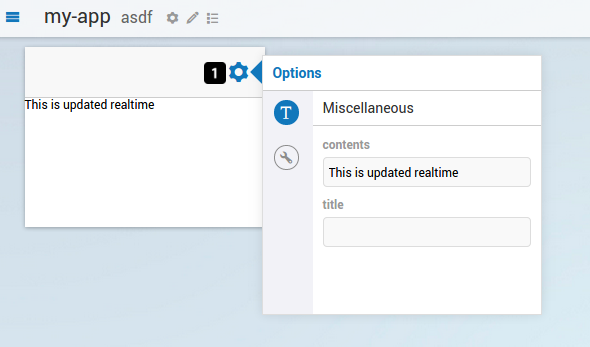
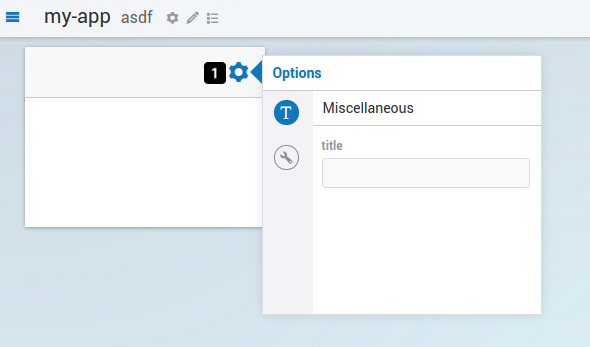
02-adding-dynamic-contents-part-i-options/index.html: Updated the tutorial; now uses some theoretical sections at the beginning and several practical sections at the end of the tutorial; RE #1774

diff --git a/Documentation/tutorials/aimms-webui-dev-tutorial-series/02-adding-dynamic-contents-part-i-options/index.html b/Documentation/tutorials/aimms-webui-dev-tutorial-series/02-adding-dynamic-contents-part-i-options/index.html
@@ -1,7 +1,7 @@
 <!DOCTYPE html>
 <html>
 	<head>
-		<title>AIMMS WebUI Dev Tutorial Series</title>
+		<title>02 - Adding dynamic contents, part I: Options</title>
 		<meta data-wp-post-id="9609" />
 		<link href='http://fonts.googleapis.com/css?family=Roboto:300,300italic' rel='stylesheet' type='text/css'>
 		<style>
@@ -26,18 +26,75 @@
 	<body>
 		<h1 class="wp-title">AIMMS WebUI Dev Tutorial</h1>
 		<h2 class="wp-title" id="02-adding-dynamic-contents-part-i-options">02 - Adding dynamic contents, part I: Options</h2>
+		<p> In this tutorial you will learn how to extend the widget that we created in
+			<a href="../01-writing-your-first-custom-widget/index.html">tutorial-01</a> with dynamic contents. Like in the
+			previous tutorial, we will leave out much of the technical details and underlying design and only explain the
+			essential things in order to get you up-and-running as soon as possible.
+		<h3>Before we begin - Prerequisites</h3>
+		<p>To make the most out of this tutorial, it is important that you meet a couple of prerequisites.
+		<p>First of all, we are going to assume that you already familiarized yourself a bit with the AIMMS WebUI.
+			Both with the end-usage and the app-development. That you have a recent AIMMS and that you have it
+			running in your set-up.
+		<p>Since this is a (software) development tutorial, we are also assuming that you have experience in writing
+			software in a generic programming language, and, that you have a basic knowledge on HTML5 technologies
+			(HTML5 DOM, CSS, Javascript, and the likes). It is also beneficial, however not required, if you are
+			familiar with <a href="http://jquery.org">jQuery</a> and, to lesser extent,
+			<a href="http://jquery-ui.org">jQuery UI</a>, as AIMMS WebUI is built on top of these technologies.
+		<p> Finally, since this tutorial builds on the previous tutorial, we expect that you have done that tutorial
+			first. If you have not done so yet, here is a link to <a href="../01-writing-your-first-custom-widget/index.html">tutorial-01</a>.
+		<h3>Dynamic contents in AWF</h3>
+		<p> There are two ways of having dynamic contents in an AWF widget. The easiest way is through options; the second way
+			is through data from AIMMS. In this tutorial we will be explaining the former method. The latter method will be
+			the topic of a later tutorial.
+		<h3>Options</h3>
 		<p> As already mentioned in <a href="../01-writing-your-first-custom-widget/index.html">tutorial-01</a>,
 			a widget can be manipulated during its lifecycle through the AWF Option Mechanism.
 			As an option value changes, the widget responds to such a change by updating its associated DOM element.
 			Likewise, a widget can change the value of an option and thereby make changes in a model.
-		<p>	We specify widget-specific options inside the factory of the widget. Currently AWF supports 6 option types:
+		<h3>The basic components of an option</h3>
+		<p> An option in AWF consists of:
+		<ol>
+			<li>a <em>name</em>,
+			<li>a <em>type</em>, and
+			<li>a <em>value</em>.
+		</ol>
+		<p> An option <em>name</em> is just that, a string to identify the option. It should be all lower
+			case consisting of short nouns separated by periods, not unlike
+			<a href="http://www.oracle.com/technetwork/java/codeconventions-135099.html">Java package names</a>. For example:
+			<ul>
+				<li><tt>car.interior.steeringwheel</tt>
+				<li><tt>car.door.handle</tt>
+				<li><tt>car.door.window</tt>
+			</ul>
+		<p> An option <em>type</em> determines the types of values it can hold (or can be resolved to).
+			The basic option types in AWF are:
 			<em>number</em>, <em>string</em>, <em>boolean</em>, <em>array</em>, <em>object</em> and <em>datasource</em>.
-			In this tutorial, we are going to dynamically update the contents of our "Hello AIMMS!" widget using an AWF
-			option and be able to change its value through the widgets "option editor"
+			These names should speak for themselves, except for, perhaps, the <em>datasource</em> option type, which we
+			will explain in a later tutorial. The framework allows plugins to introduce their own option types, more
+			on this will also be in a later tutorial.
+		<p> The option <em>value</em> depends, as was stated, on the option <em>type</em>. A value of <tt>null</tt>
+			denotes that a default value, intrinsic to the widget, should be used.
+		<p> An option is declared and specified in the widget <em>factory</em>
+		<h3>Option Editors</h3>
+		<p> Where an option be seen as a widget programmer's means of informing AWF what it wants as input, there also
+			needs to be a means for an end-user to interact with the widget using that option. In AWF the value of an
+			option can be manipulated through the UI by means of an option editor. For known option types, AWF will take
+			care of instantiating the corresponding option editor for each option that is declared in the widget's factory.
+			All option editors are accessible through the option dialog, which opens by clicking on the gear icon of a widget
+			(figure 1 - point 1).
 
-		<h3>Adding an option in our widget</h3>
-		<p> Inside the factory.js we specify the "contents" option which is of type "string". We do this inside the
-			onInitializeOptionTypes.
+		<p><picture>
+			<img src="../assets/img/tut02-screenshot-1.png">
+			<div><strong>figure 1</strong></div>
+		</picture>
+
+		<h3>Adding an option to our widget</h3>
+		<p>	Now that we know a little more about the AWF Option Mechanism and how it works with options and option editors,
+			we can extend our static "Hello AIMMS!" widget with an AWF option. Then, we will be able to change the option's
+			value through the option editor and finally, we can respond to the option value changes and update the contents
+			of our widget dynamically.
+		<p> Inside the factory.js we specify the <em>contents</em> option which is of type <tt>string</tt>. We do this inside the
+			<tt>onInitializeOptionTypes</tt>.
 
 <pre><code class="js">
 // factory.js
@@ -58,12 +115,12 @@ AWF.Bus.subscribe({
 		}
 	},
 });
-
 </code></pre>
 
-		<h3>Reacting on option changes</h3>
-		<p>In the widget we need to use the onResolvedOptionChanged function which reacts on option-value changes.
-			We already specified the "contents" option in the factory.js so now we are able to listen for changes and
+		<h3>Reacting to option changes</h3>
+		<p>In the widget we need to use the <tt>onResolvedOptionChanged</tt> function which is automatically invoked by AWF
+			whenever an option value of the widget changes.
+			Because we specified the <em>contents</em> option in the factory we are now able to listen for changes and
 			react accordingly. In our case we update the text in the widget.
 
 <pre><code class="js">// jquery.aimms.my-widget.js
@@ -90,16 +147,19 @@ jQuery.widget('ui.aimms_my_widget', AWF.Widget.create({
 }));
 </code></pre>
 
-		<h3>Option editor</h3>
-		<p> Each option that we specify will automatically be added to the "option editor". We can access the
-			"option editor" by clicking the gear icon (figure 1 - point 1).
-			All specified option values can be updated through the "option editor". By typing inside the "contents"
-			option textfield we can see that our widgets content is updated!
+		<h3>Changing the value</h3>
+		<p> After reloading the browser-tab, if we now open the widget's option dialog and navigate to the miscellaneous
+			option editor (for historical reasons the icon is still denoted by a <tt>T</tt>), we will see that a new
+			option editor has become available for the <em>contents</em> option. By typing inside the contents
+			option's textfield, we can see that our widgets content is updated! (See figure 2)
 
-		<picture>
-			<img src="../assets/img/tut02-screenshot-1.png">
-			<div><strong>figure 1</strong></div>
+		<p><picture>
+			<img src="../assets/img/tut02-screenshot-2.png">
+			<div><strong>figure 2</strong></div>
 		</picture>
+
+		<p>And there you have it, your first steps into the world of dynamic widgets in AWF using options. Next tutorial
+			we will show you how to have dynamic widgets in AWF using data that comes from an AIMMS model.
 
 	</body>
 </html>
